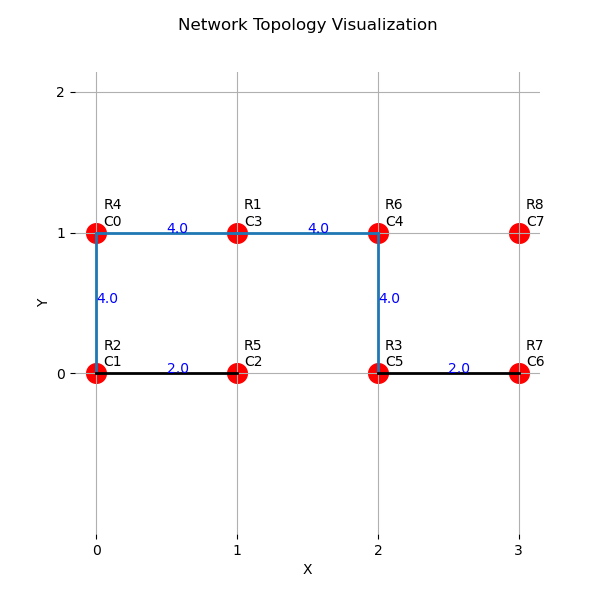
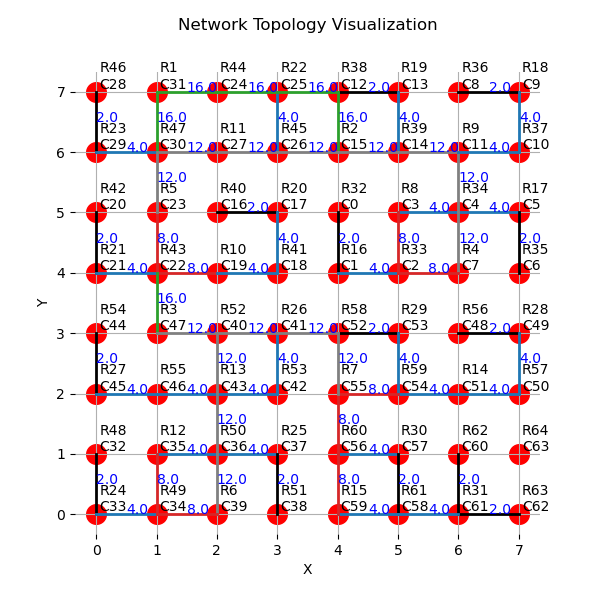
placement演算法更新(子節點放置會參考父節點)

Changed region(s): [[0.09, 0.09, 0.93, 0.93], [0.84, 0.9, 0.87, 0.93], [0.39, 0.9, 0.42, 0.93]]

diff --git a/algorithms/placement.py b/algorithms/placement.py
@@ -65,26 +65,79 @@ def candidates_for_node(
 
 
 def solve(num: int):
-    grid, blocks = build_area_partition(num, leaf_area=4)  # 2x2 停止 :contentReference[oaicite:2]{index=2}
-    n_layers, dists = inter_layer_distances(num)           # 16 -> [2,2,1] :contentReference[oaicite:3]{index=3}
+    # ------------------------------------------------------------
+    # 動態 blocks：子節點的 block 由「父節點座標」決定哪一半給 2i
+    # ------------------------------------------------------------
+    # 只在 solve 內做 local import，避免你要改動檔案其他地方的 import
+    from algorithms.area_partition import Grid, grid_shape, split_block
+
+    if num < 4 or (num & (num - 1)) != 0:
+        raise ValueError("num must be power of two and >= 4 (e.g., 16, 32, ...)")
+
+    # 建 grid
+    W, H = grid_shape(num)
+    grid = Grid(W, H)
+
+    # 距離規則
+    n_layers, dists = inter_layer_distances(num)
     d_last = dists[-1]
 
     placed: Dict[int, Node] = {}
+    blocks: Dict[int, Block] = {}
 
-    # 固定 root（你原本固定方式）
-    root_block = blocks[1]
+    # start_axis：沿用你原本 area_partition 的慣例（W>H 先切 x，否則先切 y）
+    start_axis = "x" if W > H else "y"
+
+    def other_axis(axis: str) -> str:
+        return "y" if axis == "x" else "x"
+
+    def axis_for_node(nid: int) -> str:
+        """nid 這一層用哪個 axis 來切它的 block（交錯 x/y）"""
+        lyr = node_layer(nid)  # root=1
+        return start_axis if (lyr % 2 == 1) else other_axis(start_axis)
+
+    def split_block_follow_parent(b: Block, axis: str, parent_xy: Tuple[int, int]) -> Tuple[Block, Block]:
+        """
+        回傳 (block_for_small_child, block_for_big_child)
+        規則：小的子節點(2i) 一定拿「包含 parent_xy」的那一半。
+        """
+        px, py = parent_xy
+        c1, c2 = split_block(b, axis)  # 原本規則：c1=左/上, c2=右/下（依 split_block 實作）
+
+        def inside(bb: Block) -> bool:
+            return (bb.x0 <= px <= bb.x1) and (bb.y0 <= py <= bb.y1)
+
+        # 若 parent 在 c2，就交換，讓小孩拿到包含 parent 的那半
+        if inside(c2) and not inside(c1):
+            return c2, c1
+        return c1, c2
+
+    # ------------------------------------------------------------
+    # 1) 初始化 root block + 固定 root 位置
+    # ------------------------------------------------------------
+    blocks[1] = Block(0, W - 1, 0, H - 1)
+
     fixed_x = 1
     top_y = grid.height - 1
     root_xy = (fixed_x, top_y)
-    if not in_block(root_block, fixed_x, top_y):
+    if not in_block(blocks[1], fixed_x, top_y):
         raise RuntimeError("node1 固定點不在 block1 內")
     placed[1] = place_node_at(grid, 1, router_id=1, core_id=-1, xy=root_xy)
 
-    # -------------------------
-    # Part 1: 放 blocks 節點 (1..7)
-    # -------------------------
-    block_node_ids = sorted(blocks.keys())
-    orderA = [nid for nid in block_node_ids if nid != 1]
+    # root 放好 → 立刻切出 blocks[2], blocks[3]（依 root 座標決定 2i 在哪半）
+    b2, b3 = split_block_follow_parent(blocks[1], axis_for_node(1), (placed[1].x, placed[1].y))
+    blocks[2] = b2
+    blocks[3] = b3
+
+    # ------------------------------------------------------------
+    # 2) Part 1：放 internal nodes（2 .. num//2 - 1）
+    #    並在放好每個 nid 後，動態切出它的 children blocks
+    # ------------------------------------------------------------
+    internal_end = (num // 2) - 1
+    orderA = list(range(2, internal_end + 1))
+
+    # leaf parents 範圍：num//4 .. num//2 - 1（例如 num=16 -> 4..7）
+    leaf_parent_start = num // 4
 
     def dfs_blocks(idx: int) -> bool:
         if idx == len(orderA):
@@ -94,29 +147,48 @@ def solve(num: int):
         pid = parent_id(nid)
         if pid not in placed:
             return False
+        if nid not in blocks:
+            # 正常不應該發生：pid 放好時就會把孩子 blocks 切出來
+            return False
+
         parent_xy = (placed[pid].x, placed[pid].y)
 
         lyr = node_layer(nid)
-        target_dist = dists[lyr - 2]  # layer2 用 dists[0] ... :contentReference[oaicite:4]{index=4}
+        target_dist = dists[lyr - 2]  # layer2 用 dists[0] ...
 
         cands = candidates_for_node(grid, blocks, nid, parent_xy, target_dist)
         for xy in cands:
             placed[nid] = place_node_at(grid, nid, router_id=nid, core_id=-1, xy=xy)
+
+            # 若 nid 還沒到 leaf_parent（代表還需要切出下一層的 blocks）
+            created_children = False
+            if nid < leaf_parent_start:
+                axis = axis_for_node(nid)
+                small_b, big_b = split_block_follow_parent(blocks[nid], axis, (placed[nid].x, placed[nid].y))
+                blocks[nid * 2] = small_b
+                blocks[nid * 2 + 1] = big_b
+                created_children = True
+
             if dfs_blocks(idx + 1):
                 return True
+
+            # 回朔
             remove_node_at(grid, xy)
             del placed[nid]
+            if created_children:
+                blocks.pop(nid * 2, None)
+                blocks.pop(nid * 2 + 1, None)
+
         return False
 
     if not dfs_blocks(0):
-        raise RuntimeError("blocks 節點放置失敗（1..7）")
+        raise RuntimeError("blocks 節點放置失敗（internal nodes）")
 
-    # -------------------------
-    # Part 2: 放 leaf（在每個 2×2 block 內找 cell）
-    # leaf node id: 2*pid, 2*pid+1（對應 8..15）
-    # -------------------------
-    leaf_parents = [nid for nid, b in blocks.items() if b.area <= 4]  # 2x2 leaf blocks :contentReference[oaicite:5]{index=5}
-    leaf_parents = sorted(leaf_parents)
+    # ------------------------------------------------------------
+    # 3) Part 2：放 leaf（沿用你原本作法）
+    #    leaf parents 就是 num//4 .. num//2 - 1
+    # ------------------------------------------------------------
+    leaf_parents = list(range(num // 4, num // 2))
 
     def leaf_candidates_in_parent_block(parent_id_: int) -> List[Tuple[int, int]]:
         """在 parent 的 2×2 block 中找距離 parent 座標 = d_last 的空格"""
@@ -137,16 +209,14 @@ def solve(num: int):
             return True
 
         pid = leaf_parents[parent_idx]
-        # 兩個 leaf id（例如 pid=4 -> 8,9）
         c1, c2 = pid * 2, pid * 2 + 1
 
         cands = leaf_candidates_in_parent_block(pid)
-        # 我們需要挑兩個不同 cell
         for i in range(len(cands)):
             xy1 = cands[i]
             placed[c1] = place_node_at(grid, c1, router_id=c1, core_id=-1, xy=xy1)
 
-            cands2 = leaf_candidates_in_parent_block(pid)  # 更新後再抓一次
+            cands2 = leaf_candidates_in_parent_block(pid)
             for xy2 in cands2:
                 if xy2 == xy1:
                     continue
@@ -155,17 +225,13 @@ def solve(num: int):
                 if dfs_leaf(parent_idx + 1):
                     return True
 
-                # 回朔 leaf2
                 remove_node_at(grid, xy2)
                 del placed[c2]
 
-            # 回朔 leaf1
             remove_node_at(grid, xy1)
             del placed[c1]
 
         return False
-
-
 
     if not dfs_leaf(0):
         raise RuntimeError("leaf 放置失敗（在 2×2 block 內找 dist[-1] 位置）")

diff --git a/algorithms/area_partition.py b/algorithms/area_partition.py
@@ -115,6 +115,24 @@ def block_of_node(num: int, node_id: int, leaf_area: int = 4) -> Block:
         raise ValueError(f"node_id={node_id} 不存在（可能超過停止探索的深度）")
     return blocks[node_id]
 
+def split_block_follow_parent(b: Block, axis: str, parent_xy: tuple[int, int]) -> tuple[Block, Block]:
+    """
+    回傳 (block_for_small_child, block_for_big_child)
+
+    規則：小的子節點(2i) 要拿「包含 parent_xy」的那一半。
+    """
+    px, py = parent_xy
+
+    c1, c2 = split_block(b, axis)  # 先用原本規則切成兩半
+
+    def inside(bb: Block) -> bool:
+        return (bb.x0 <= px <= bb.x1) and (bb.y0 <= py <= bb.y1)
+
+    # 若 parent 不在 c1，而是在 c2，就交換，讓 c1 變成「包含 parent」的那半
+    if inside(c2) and not inside(c1):
+        return c2, c1
+    return c1, c2
+
 
 if __name__ == "__main__":
     num = int(input("輸入 num (2 的次方，例如 16/32): "))

diff --git a/dataflow.py b/dataflow.py
@@ -200,7 +200,7 @@ def check_nearby(placed_dict, full_paths):
     return directions
 
 if __name__ == "__main__":
-    num = 8
+    num = 64
 
     # assign router
     router_map = assign_router(num)
